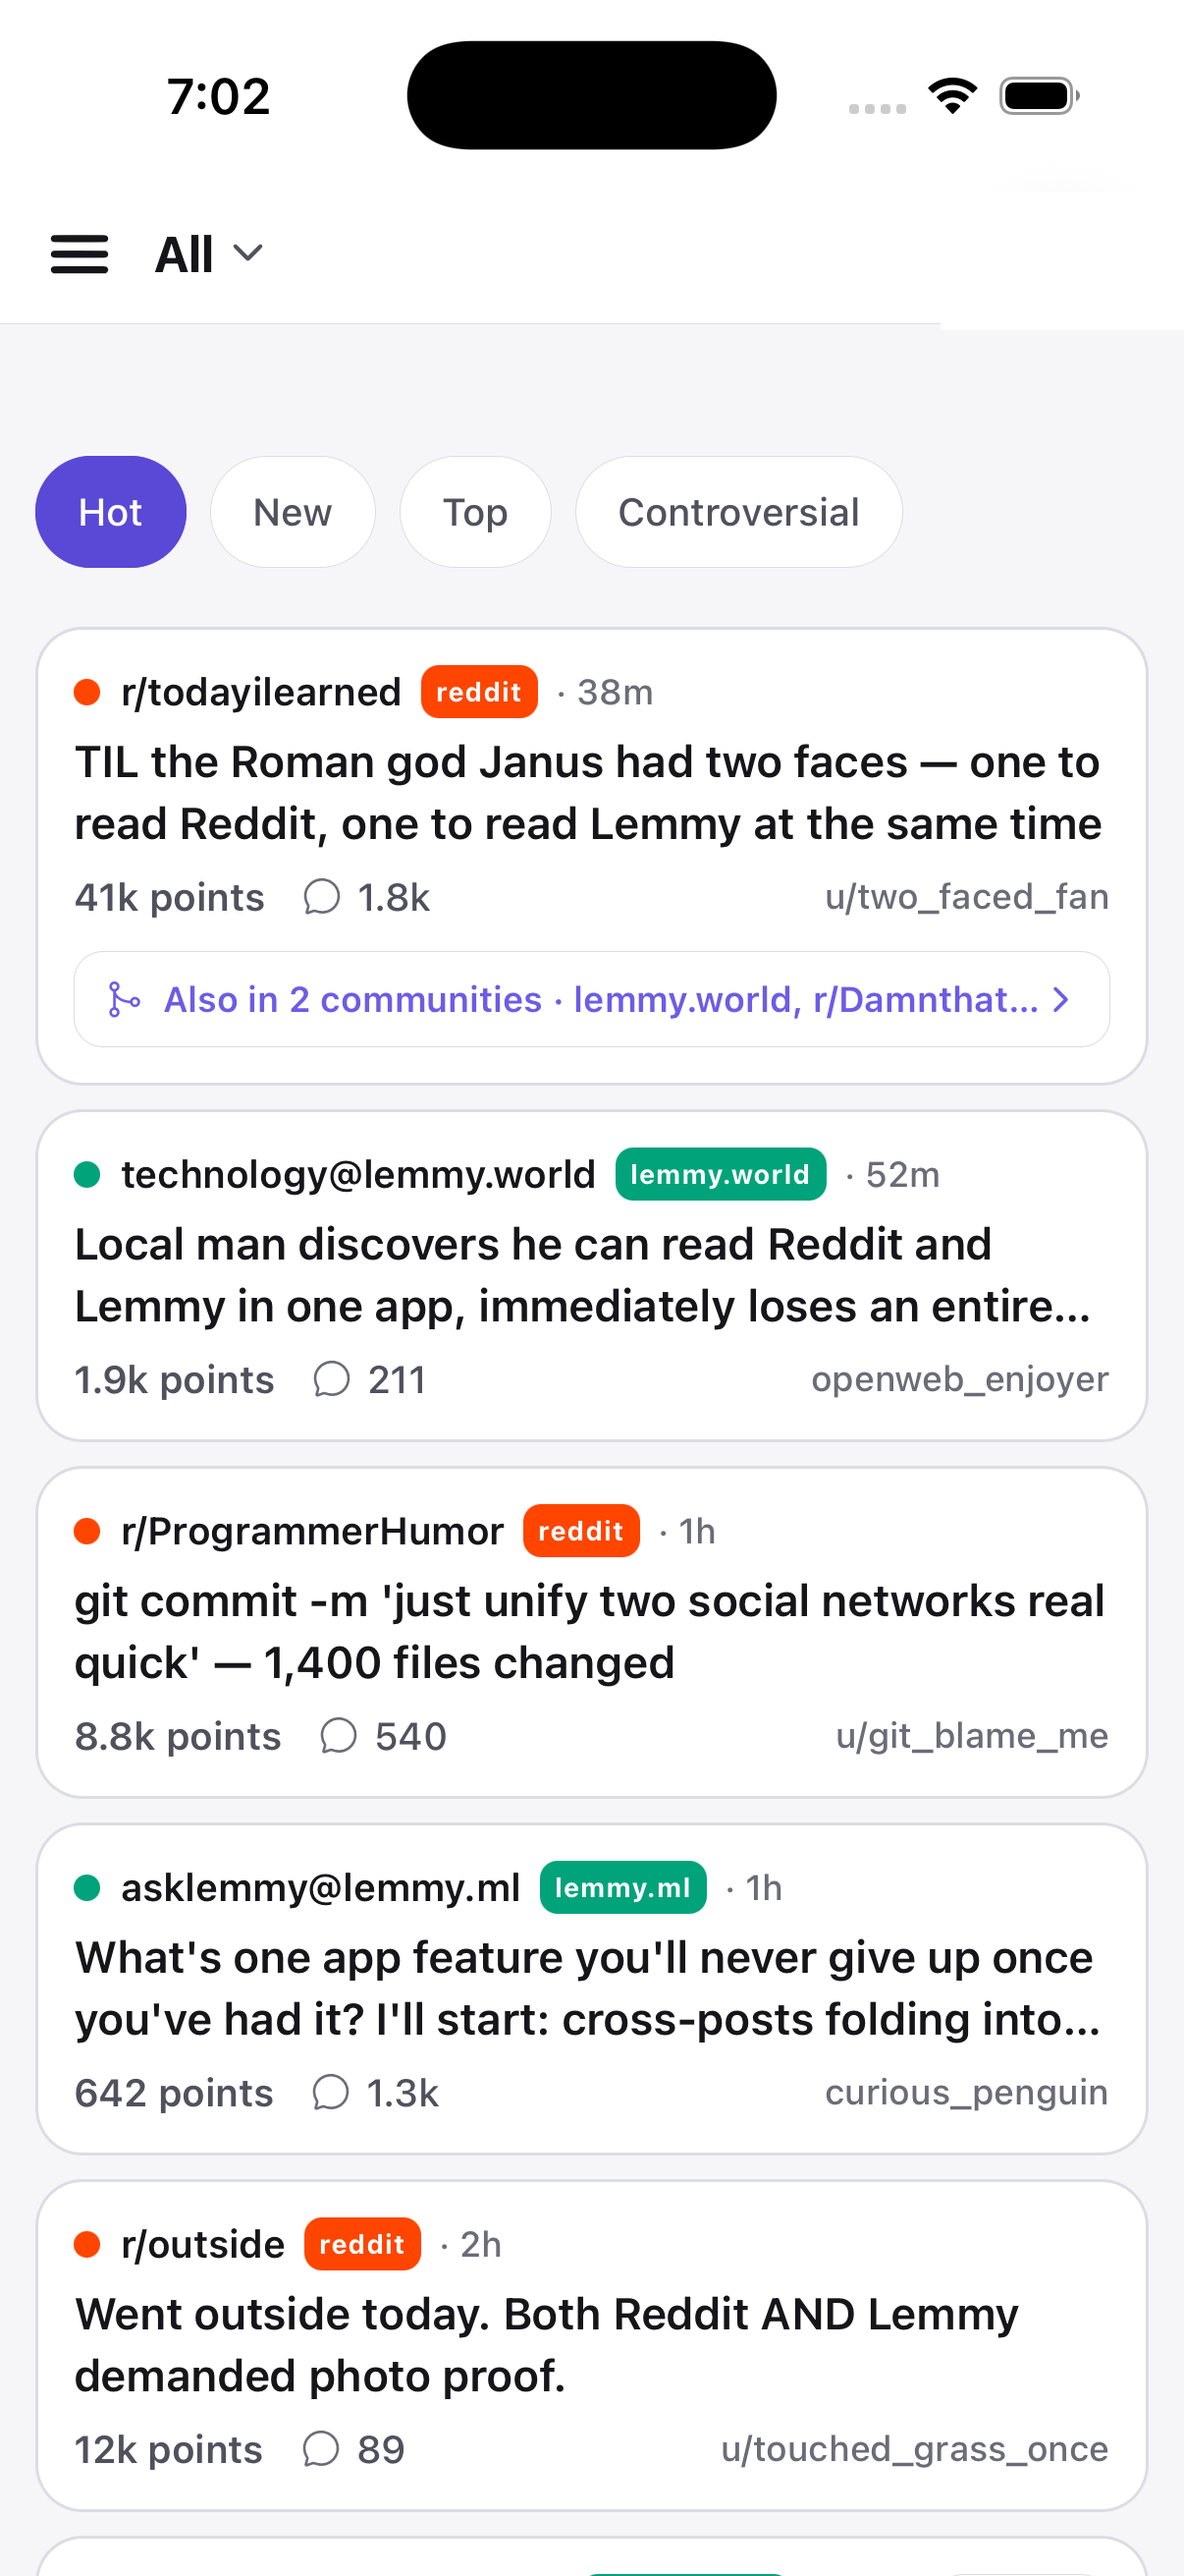
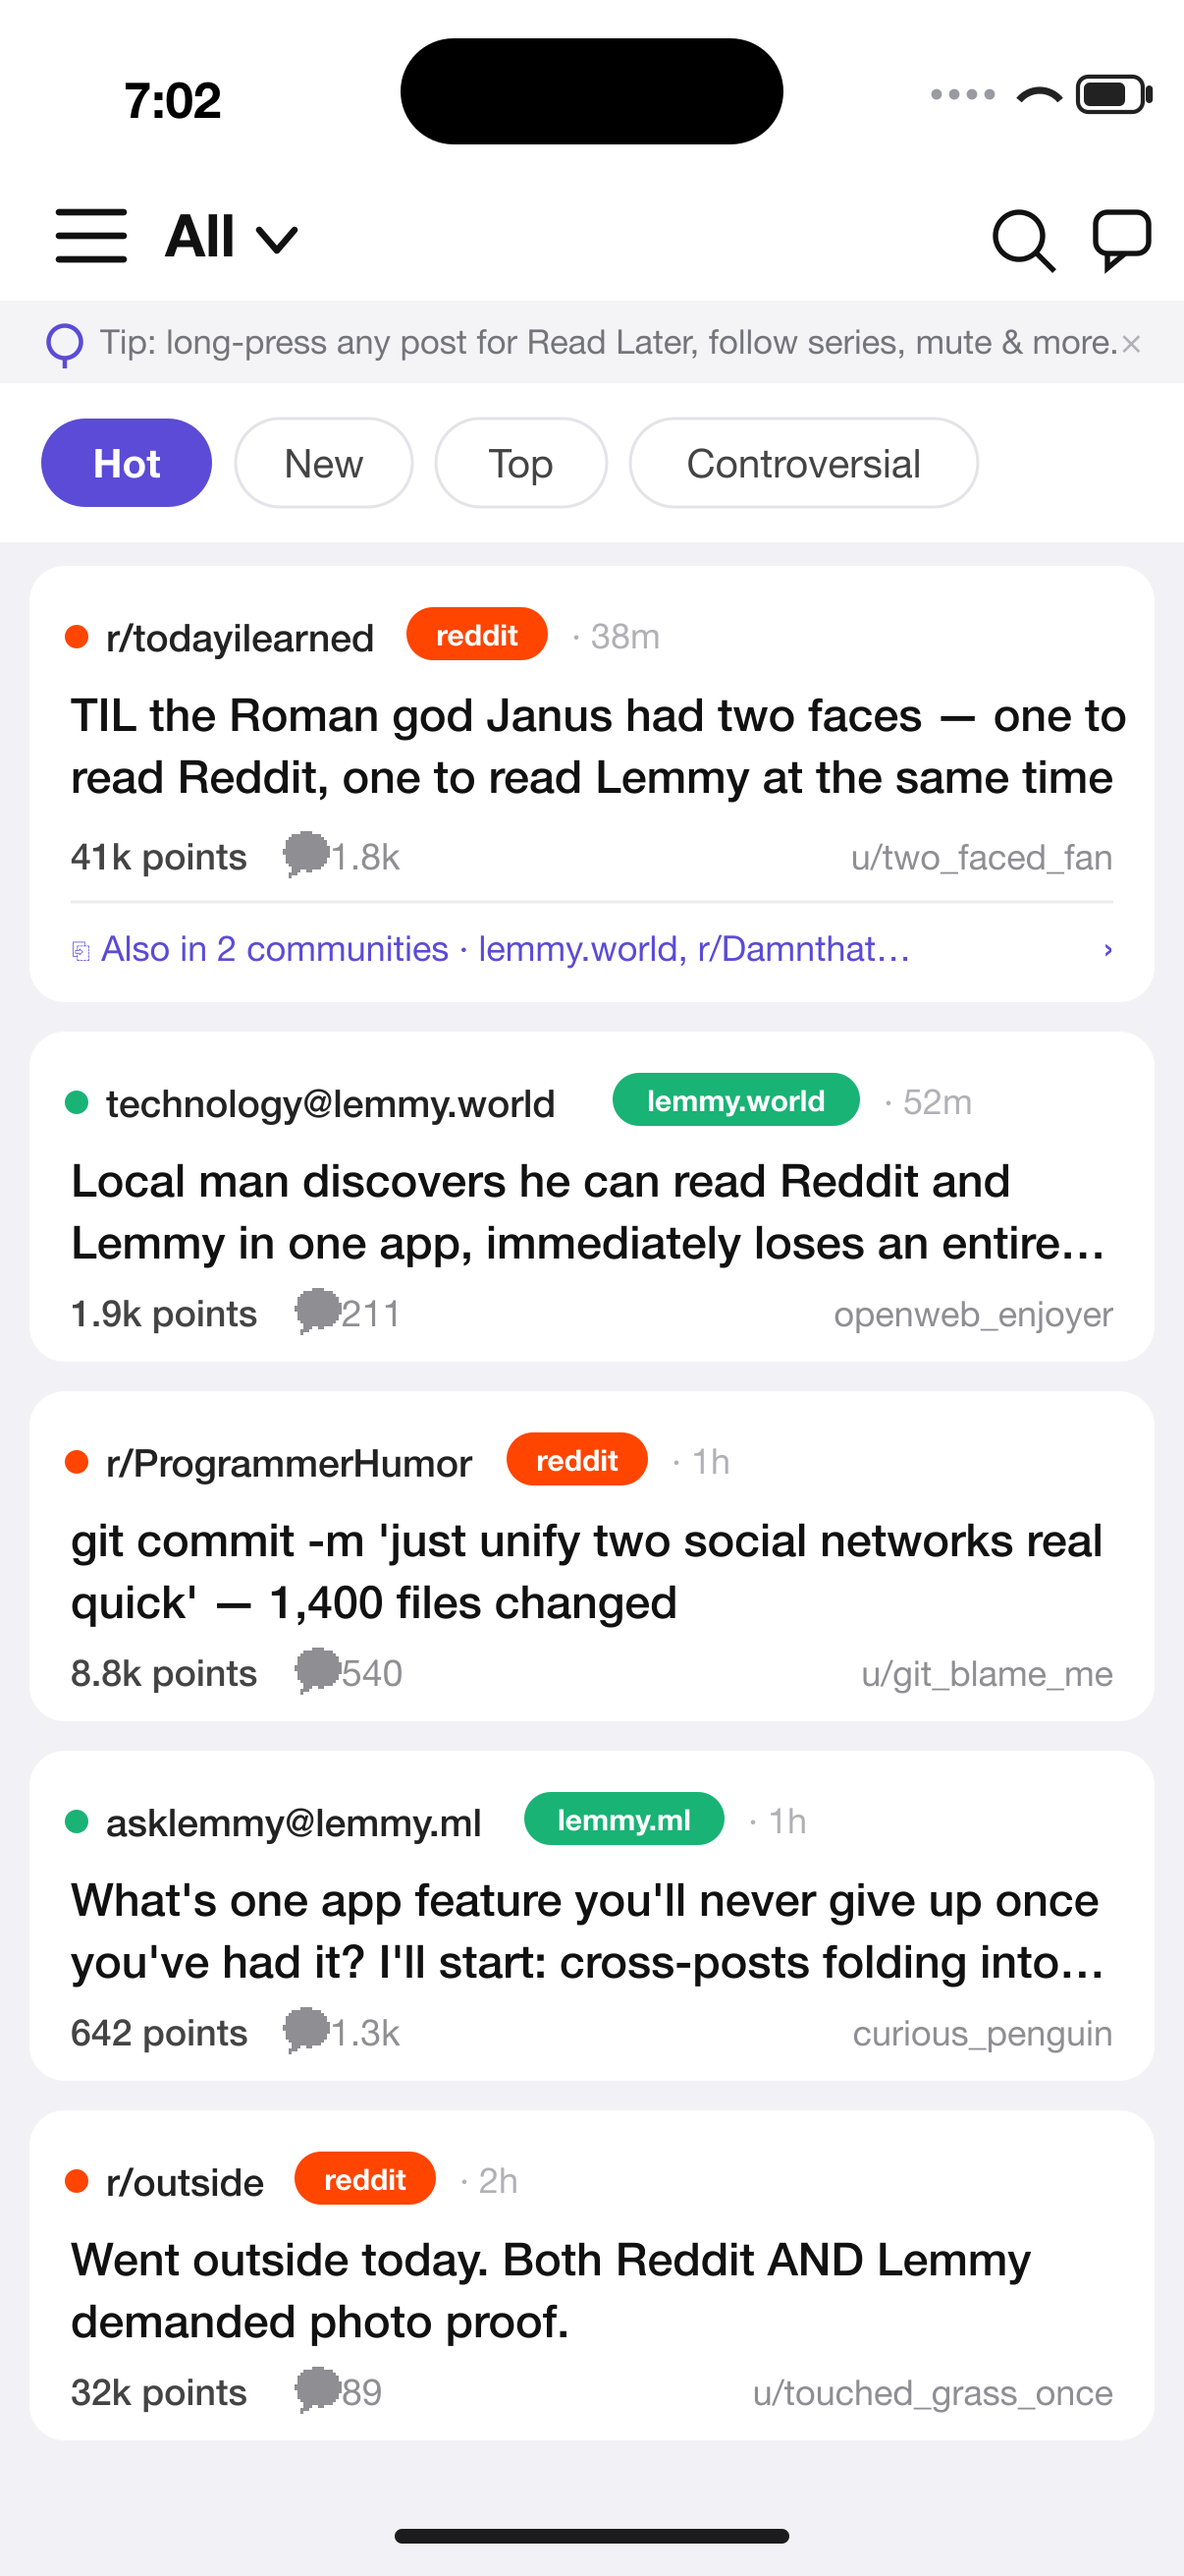
docs: refresh feed mock to current UI (teaching strip); explicit img dimensions

diff --git a/README.md b/README.md
@@ -20,7 +20,7 @@ single-network app can do — a genuinely merged feed, and reading the same
 conversation across both networks at once.
 
 <p align="center">
-  <img src="docs/feed.png" alt="Janus feed — Reddit and Lemmy merged into one source-tagged feed, with cross-network repost collapse" width="320">
+  <img src="docs/feed.png" alt="Janus feed — Reddit and Lemmy merged into one source-tagged feed, with cross-network repost collapse" width="320" height="696">
 </p>
 
 > The feed interleaves Reddit and Lemmy, tags each post with its origin, and
@@ -28,9 +28,9 @@ conversation across both networks at once.
 > communities”). *(Posts above are illustrative.)*
 
 <p align="center">
-  <img src="docs/briefing.png" alt="The Briefing — one card per followed megathread series: today's edition, what changed since your last visit, keyword watches, and the top new comment threads" width="280">
+  <img src="docs/briefing.png" alt="The Briefing — one card per followed megathread series: today's edition, what changed since your last visit, keyword watches, and the top new comment threads" width="280" height="609">
   &nbsp;&nbsp;&nbsp;
-  <img src="docs/planemode.png" alt="Plane Mode — choose the contexts and extent of the pack, then read fully offline; votes and replies queue in an outbox" width="280">
+  <img src="docs/planemode.png" alt="Plane Mode — choose the contexts and extent of the pack, then read fully offline; votes and replies queue in an outbox" width="280" height="609">
 </p>
 
 > **Left — the Briefing:** megathread mission control. Each followed series
